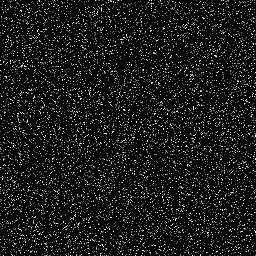
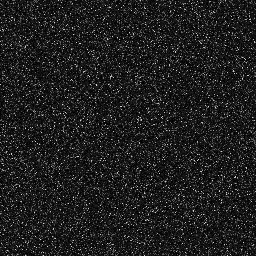
Korn auf eine Zwischenstufe zuruecknehmen
Die erste Fassung war dem Betreiber zu wild. Die Textur ist jetzt auf
eine Mitte zwischen dem urspruenglichen und dem harten Stand gesetzt:
Streuung 34,6 statt 52,2, Spanne bis 220 statt bis 255, mittlere
Helligkeit unveraendert.

Gemessene Rauheit im Hintergrund, Desktop: urspruenglich 7,85 — zu wild
16,85 — jetzt 12,78. Mobil: 8,50 — 18,92 — 14,20. Die Helligkeit bleibt
dabei praktisch gleich (34,0 / 31,8 / 31,4) und der verwischte Hund
bleibt sichtbar.

Das Zugangs-Tor ist erneut per Screenshot-Vergleich als bitgenau
unveraendert geprueft.

Claude-Session: https://claude.ai/code/session_011uK49YQCHAtYeqc6hYHW5F

diff --git a/src/styles/global.css b/src/styles/global.css
@@ -132,10 +132,14 @@ body::before {
    weiches Rauschen (Werte 6–135, Streuung 18) — damit liessen sich per CSS nur
    8–15% mehr Rauheit herausholen, und jedes Mal bezahlte man es mit einem helleren
    Grund oder damit, dass der Hund verschwand (durchgemessen).
-   `korn-hart.png` hat bei GLEICHER mittlerer Helligkeit (31,4 statt 31,5) die volle
-   Spanne 0–255 und dreifache Streuung (52 statt 18): vereinzelte helle Sprenkel auf
-   fast schwarzem Grund statt gleichmässigem Grau. Der Grund wird dadurch rauer,
-   ohne heller zu werden.
+   `korn-hart.png` hat bei GLEICHER mittlerer Helligkeit (30,5 statt 31,5) die
+   Spanne 0–220 und knapp doppelte Streuung (34,6 statt 18,1): vereinzelte helle
+   Sprenkel auf fast schwarzem Grund statt gleichmässigem Grau. Der Grund wird
+   dadurch rauer, ohne heller zu werden.
+   Die Stärke ist eine bewusst gewählte MITTE: eine erste Fassung mit Streuung 52
+   (Spanne bis 255) war dem Betreiber zu wild. Gemessene Rauheit im Hintergrund —
+   vorher 7,9 / zu wild 16,9 / jetzt 12,8 (Desktop). Wer hier weiterdreht: die
+   Textur erzeugen, nicht am CSS schrauben (siehe docs/lernnotizen.md).
    Deckkraft bleibt bei 0,6 — die Kachel ist deckend, bei mehr würde sie den
    verwischten Hund darunter zudecken.
    Nur im Hintergrund — die Fotos liegen mit weissem Passepartout darüber und

diff --git a/docs/lernnotizen.md b/docs/lernnotizen.md
@@ -205,8 +205,12 @@ Zeit schneller/sicherer werden. Kurz halten, konkret, mit dem *Warum*.
   Hintergrunds durchgemessen: mit dem weichen `korn.png` (Werte 6–135, Streuung 18)
   liessen sich per CSS nur 8–15% mehr Rauheit holen, und jedes Mal bezahlte man mit
   einem helleren Grund oder damit, dass der verwischte Hund verschwand. Mit
-  `korn-hart.png` (gleiche mittlere Helligkeit 31,4, aber volle Spanne 0–255 und
-  dreifache Streuung) verdoppelte sich die Rauheit, ohne dass der Grund heller wurde.
+  `korn-hart.png` (gleiche mittlere Helligkeit, aber grössere Spanne und höhere
+  Streuung) stieg die Rauheit deutlich, ohne dass der Grund heller wurde.
+  **Die Stärke ist eine gewählte Mitte, kein Maximum:** die erste Fassung
+  (Streuung 52, Spanne bis 255) war dem Betreiber zu wild; jetzt Streuung 34,6 und
+  Spanne bis 220. Gemessene Hintergrund-Rauheit Desktop: vorher 7,9 — zu wild 16,9 —
+  jetzt 12,8. Zum Nachjustieren die **Textur neu erzeugen**, nicht am CSS drehen.
   Zwei Sackgassen, nicht nochmal versuchen:
   - `mix-blend-mode: overlay` fürs Korn — overlay behält die Helligkeit des
     Untergrunds bei, auf near-black wird jedes Korn zu Null und der Grund war danach
